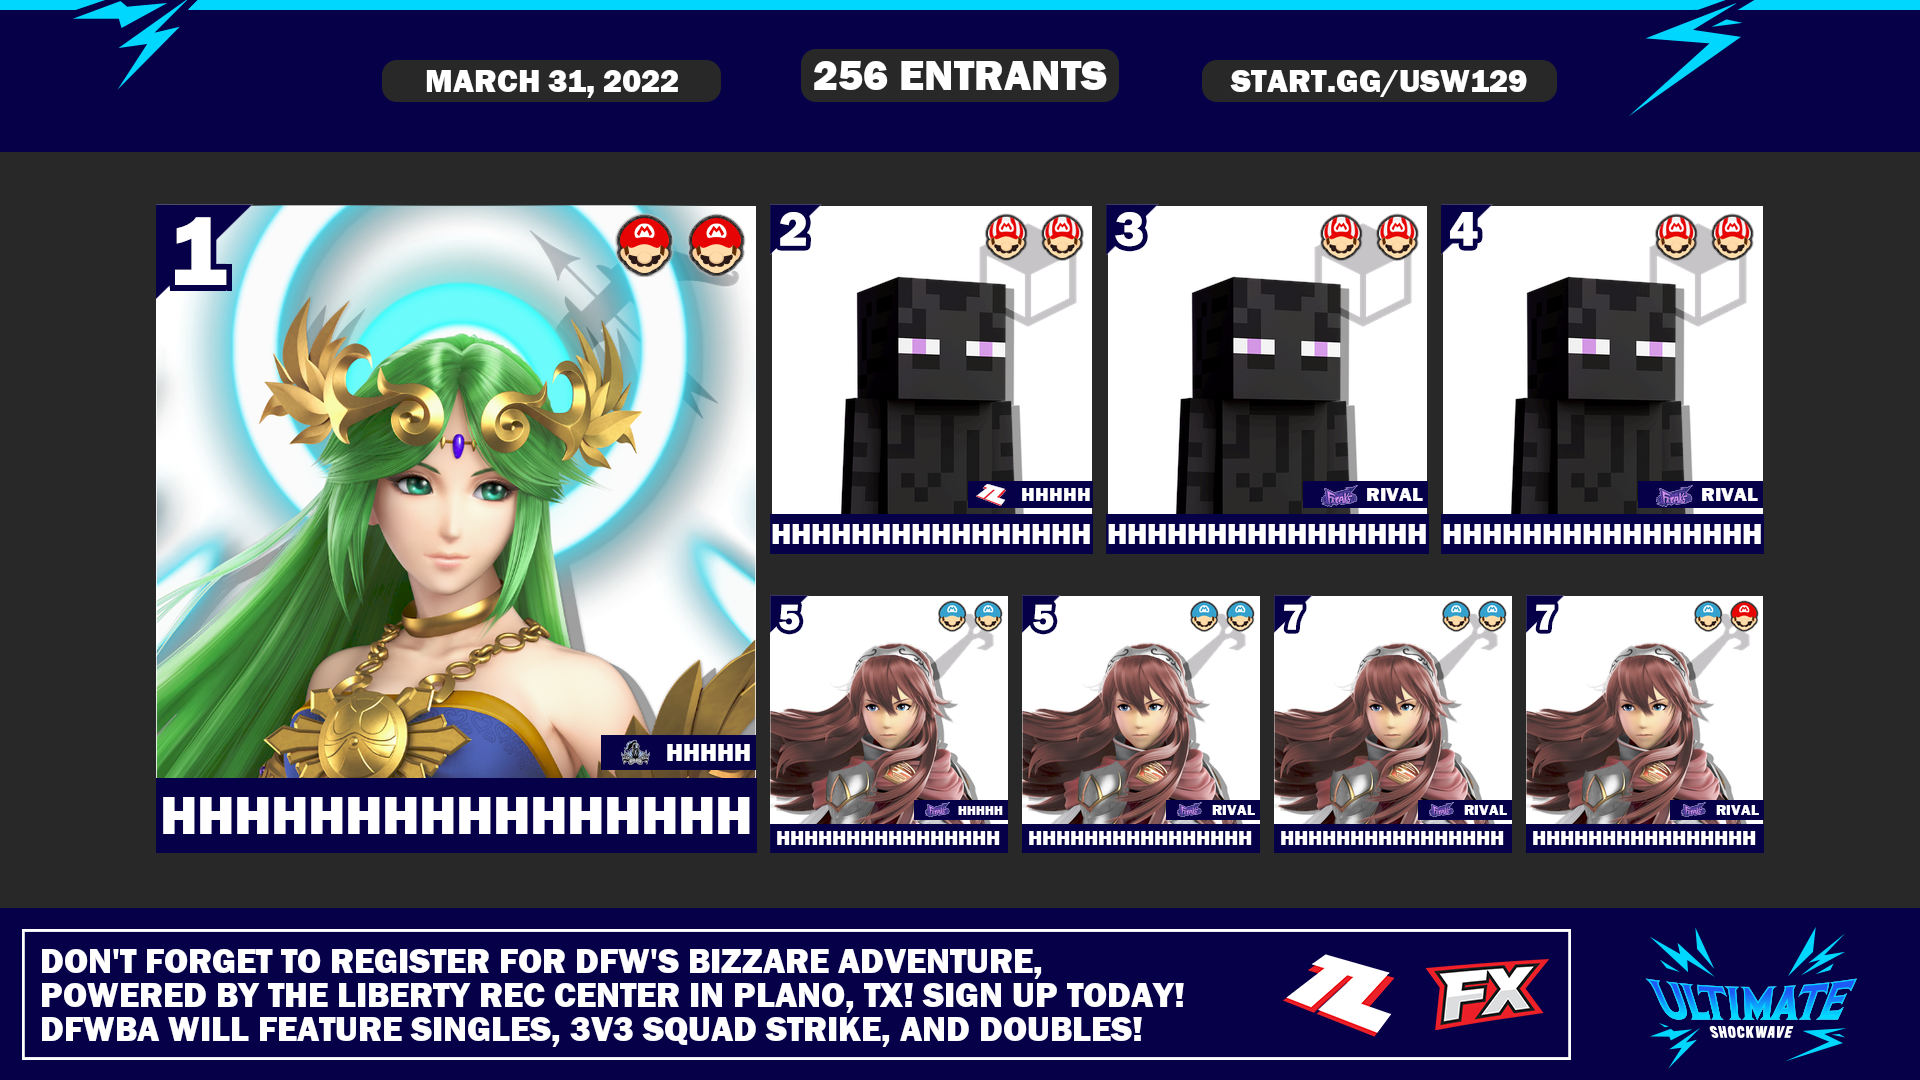
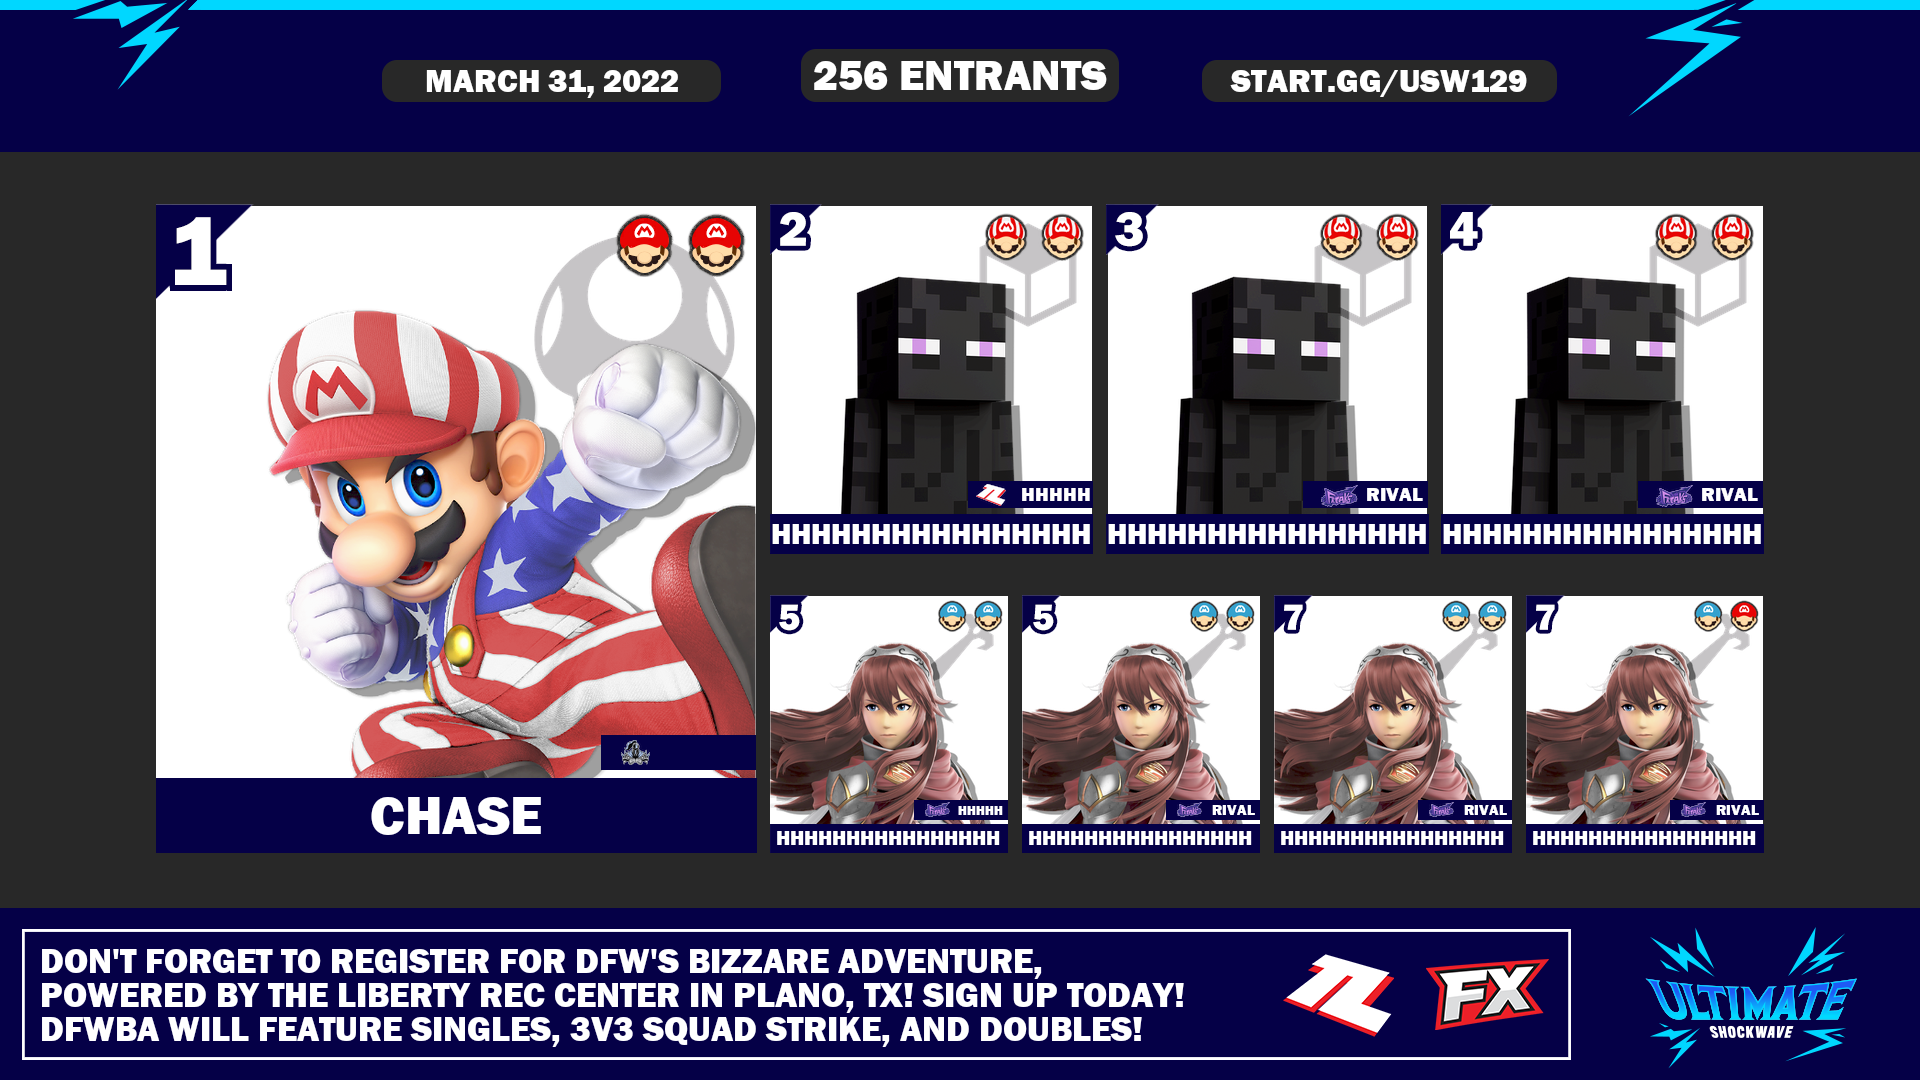
imagetest might contain future work!

Changed region(s): [[0.0625, 0.1833, 0.4062, 0.7944]]

diff --git a/imagetest.py b/imagetest.py
@@ -10,6 +10,29 @@ sponsor_big = Image.open('resources/events/USW/sponsor_big.png')
 sponsor_med = Image.open('resources/events/USW/sponsor_med.png')
 sponsor_sml = Image.open('resources/events/USW/sponsor_sml.png')
 
+entrants = {
+    "first_place" : {
+        "team" : "",
+        "name" : "CHASE",
+        "main_character" : "Mario",
+        "main_character_color" : "01",
+        "alternate_1" : None,
+        "alternate_1_color" : "00",
+        "alternate_2" : None,
+        "alternate_2_color" : "00",
+    },
+    "second_place" : {
+        "team" : "TLOC",
+        "name" : "Em",
+        "main_character" : "Isabelle",
+        "main_character_color" : "01",
+        "alternate_1" : "Luigi",
+        "alternate_1_color" : "00",
+        "alternate_2" : None,
+        "alternate_2_color" : "00",
+    }
+}
+
 
 # cat 1 box 600 x 75
 # cat 2 box 322 x 40
@@ -54,7 +77,7 @@ def create_sponsorbox(sponsorbox, fawnt, name, vOffset=0, color=(255, 255, 255, 
 # port size w 654 x h 706
 # icon size 64 x 64
 
-first_portrait = Image.open('resources/characters/SSBU/portraits/palutena_04.png')
+first_portrait = Image.open('resources/characters/SSBU/portraits/%s_%s.png' % (entrants["first_place"]["main_character"], entrants["first_place"]["main_character_color"]))
 
 first_portrait = first_portrait.resize((600, 647), Image.Resampling.LANCZOS)
 
@@ -74,7 +97,7 @@ fnt = ImageFont.truetype('resources/events/USW/font.ttf', 25)
 first_portrait.paste(sponsor_big, (445, 530))
 # open if sponsor text
 sponsor1_text = Image.new('RGBA', (spnsW, spnsH))
-sponsor1_text = create_sponsorbox(sponsor1_text, fnt, "HHHHH")
+sponsor1_text = create_sponsorbox(sponsor1_text, fnt, entrants["first_place"]["team"])
 first_portrait.paste(sponsor1_text, (510, 533), sponsor1_text)
 # close sponsor text
 
@@ -91,7 +114,7 @@ first_portrait.paste(sponsor1_image, (465, 535), sponsor1_image)
 fnt = ImageFont.truetype('resources/events/USW/font.ttf', 55)                                           
 
 namebox1 = Image.new('RGBA', (nboxW, nboxH))
-namebox1 = create_namebox(namebox1, fnt, "hhhhhhhhhhhhhhhh".upper())
+namebox1 = create_namebox(namebox1, fnt, entrants["first_place"]["name"])
 
 # 2nd-4th 322 x 348
 
